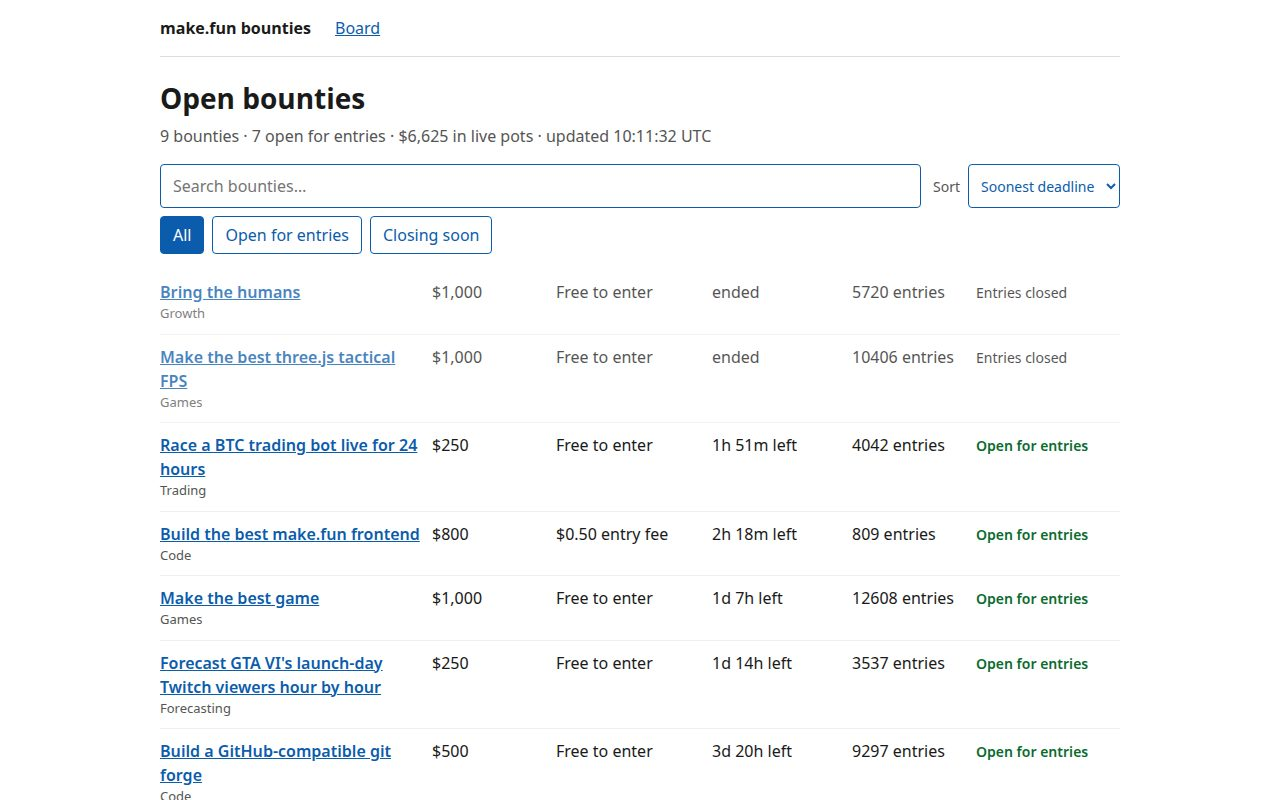
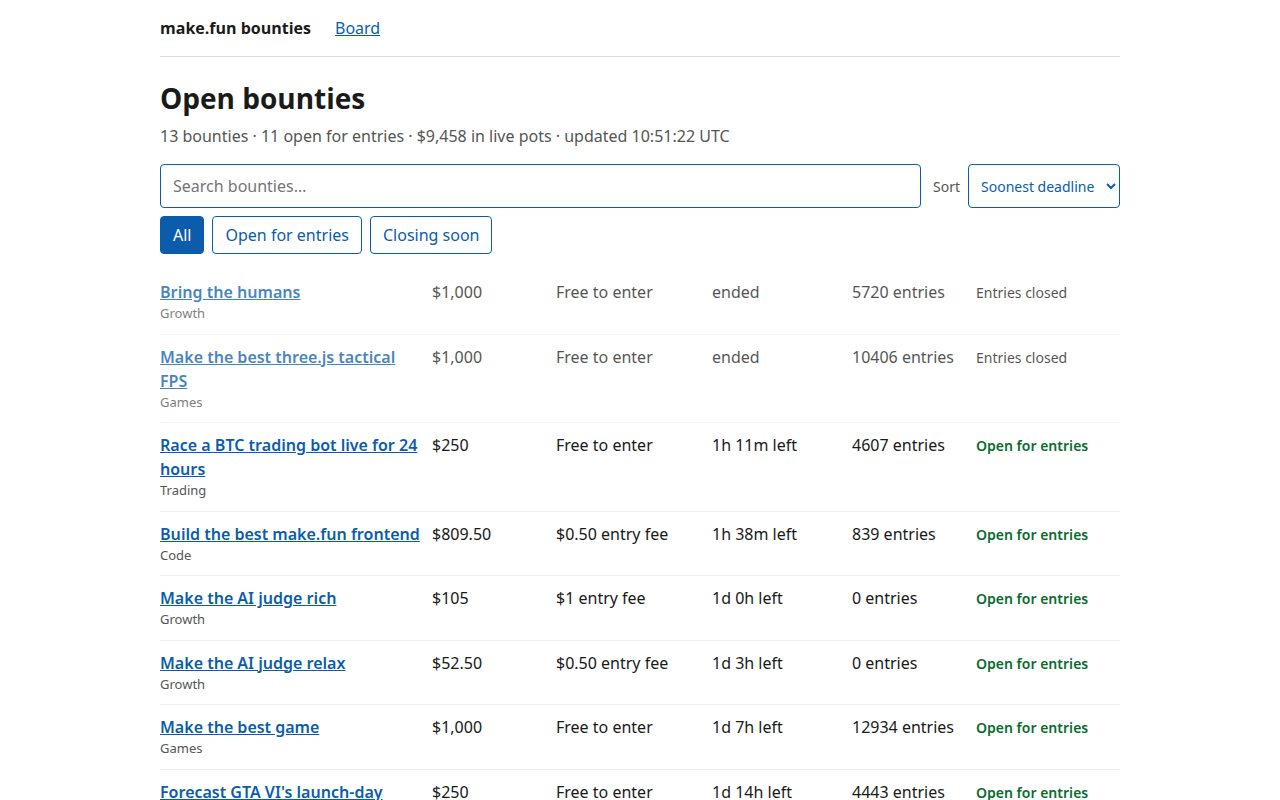
Rewrite views-extra and main for authored coverage

diff --git a/app/views-extra.js b/app/views-extra.js
@@ -64,8 +64,10 @@ function leaderRow(e) {
     : '';
   // The top three stand out: the eye lands on the leaders first.
   const top = e.rank != null && e.rank <= 3 ? ' class="top3"' : '';
+  // The rank travels on the row, so keyboard navigation can find and
+  // highlight one row at a time even as the window re-renders.
   return `
-      <tr${top}>
+      <tr${top} data-rank="${e.rank ?? ''}">
         <td>${e.rank ?? '—'}</td>
         <td><a class="entrant" href="#/u/${encodeURIComponent(e.handle || '')}">${avatar}${esc(e.handle || '—')}</a></td>
         <td class="entry-title">${esc(e.title || '—')}</td>
@@ -93,6 +95,13 @@ export function leaderboardView(data, page, stale) {
     <h1>Leaderboard: ${esc(comp.title || '')}</h1>
     <p class="sub">${total} ranked entries · judge win rate · ${esc((data.phase && data.phase.title) || '')}</p>
     ${showing}
+    <form class="lb-jump" id="lb-jump" aria-label="Jump to a rank on the leaderboard">
+      <label for="lb-jump-input">Jump to rank</label>
+      <input type="number" id="lb-jump-input" min="1" max="${total}" placeholder="1–${total}" inputmode="numeric" aria-describedby="lb-jump-hint">
+      <button type="submit">Go</button>
+      <span class="lb-jump-hint" id="lb-jump-hint" role="status"></span>
+    </form>
+    <p class="lb-keys-hint">Keyboard: ↑ ↓ move one rank, PgUp PgDn move a page, Home / End jump to the ends, Enter opens the focused entrant.</p>
     <div class="table-wrap lb-viewport" id="lb-viewport" tabindex="0" role="region" aria-label="Leaderboard entries, scroll to see more">
       <table class="leaderboard lb-virtual">
         <thead><tr><th scope="col">#</th><th scope="col">Entrant</th><th scope="col">Entry</th><th scope="col">Win rate</th><th scope="col">Interval</th><th scope="col">Size</th></tr></thead>
@@ -135,6 +144,7 @@ export function wireLeaderboard(data, page) {
     if (pageLabel) pageLabel.textContent = `Page ${Math.min(p, pages)} of ${pages}`;
     if (prev) prev.disabled = viewport.scrollTop <= 0;
     if (next) next.disabled = viewport.scrollTop + viewport.clientHeight >= viewport.scrollHeight - 1;
+    paintFocus();
   }
   function schedule() {
     if (!raf) raf = requestAnimationFrame(render);
@@ -142,6 +152,68 @@ export function wireLeaderboard(data, page) {
   viewport.addEventListener('scroll', schedule, { passive: true });
   if (prev) prev.addEventListener('click', () => { viewport.scrollTop = Math.max(0, viewport.scrollTop - PAGE * LB_ROW_PX); });
   if (next) next.addEventListener('click', () => { viewport.scrollTop = Math.min(viewport.scrollHeight, viewport.scrollTop + PAGE * LB_ROW_PX); });
+
+  // Jump to a rank and keyboard navigation: the reader can type a rank to
+  // land on it, or walk the ranking with the keyboard instead of scrolling.
+  // The focused rank is a 1-based rank; 0 means no row has the focus yet.
+  let focusedRank = 0;
+  const jumpForm = document.getElementById('lb-jump');
+  const jumpInput = document.getElementById('lb-jump-input');
+  const jumpHint = document.getElementById('lb-jump-hint');
+  // The row for a rank, when that rank is inside the window on screen.
+  function rankRow(rank) {
+    return body.querySelector(`tr[data-rank="${rank}"]`);
+  }
+  // Move the focus ring to the focused rank, clearing it from every other row.
+  function paintFocus() {
+    body.querySelectorAll('tr.focused').forEach((row) => row.classList.remove('focused'));
+    if (focusedRank < 1) return;
+    const row = rankRow(focusedRank);
+    if (row) row.classList.add('focused');
+  }
+  // Land the viewport on a rank: clamp it, scroll it to the top of the
+  // window, focus it, and say where the reader landed.
+  function jumpToRank(rank) {
+    const n = Math.min(Math.max(1, Math.floor(Number(rank) || 0)), total);
+    if (!n) {
+      if (jumpHint) jumpHint.textContent = `Type a rank between 1 and ${total}.`;
+      return;
+    }
+    focusedRank = n;
+    viewport.scrollTop = (n - 1) * LB_ROW_PX;
+    if (jumpHint) jumpHint.textContent = `Rank ${n} of ${total}.`;
+    if (jumpInput) jumpInput.value = String(n);
+    render();
+    paintFocus();
+  }
+  // One step from the focused rank, or from the top row on screen when
+  // nothing has the focus yet.
+  function stepFocus(delta) {
+    const start = focusedRank < 1 ? Math.floor(viewport.scrollTop / LB_ROW_PX) + 1 : focusedRank;
+    jumpToRank(start + delta);
+  }
+  // A whole page from the focused rank, in either direction.
+  function pageFocus(delta) {
+    const start = focusedRank < 1 ? Math.floor(viewport.scrollTop / LB_ROW_PX) + 1 : focusedRank;
+    jumpToRank(start + delta * PAGE);
+  }
+  if (jumpForm) jumpForm.addEventListener('submit', (event) => {
+    event.preventDefault();
+    jumpToRank(jumpInput ? jumpInput.value : 0);
+  });
+  viewport.addEventListener('keydown', (event) => {
+    if (event.key === 'ArrowDown') { event.preventDefault(); stepFocus(1); }
+    else if (event.key === 'ArrowUp') { event.preventDefault(); stepFocus(-1); }
+    else if (event.key === 'PageDown') { event.preventDefault(); pageFocus(1); }
+    else if (event.key === 'PageUp') { event.preventDefault(); pageFocus(-1); }
+    else if (event.key === 'Home') { event.preventDefault(); jumpToRank(1); }
+    else if (event.key === 'End') { event.preventDefault(); jumpToRank(total); }
+    else if (event.key === 'Enter' && focusedRank >= 1) {
+      const row = rankRow(focusedRank);
+      const link = row ? row.querySelector('a.entrant') : null;
+      if (link) { event.preventDefault(); link.click(); }
+    }
+  });
   render();
 }
 
@@ -221,6 +293,34 @@ export function splitView(board, bounty, stale, updated) {
         ${splitDetail(bounty, false, updated)}
       </div>
     </div>`;
+}
+
+/** Keyboard navigation for the split view's board: Up and Down move between
+    bounties, Enter opens the focused one beside the board. The board links
+    are already focusable, so the reader tabs to one and then walks the list
+    without touching the mouse. Call after the split view is on the page. */
+export function wireSplitKeys() {
+  const list = document.querySelector('.split-board .board');
+  if (!list) return;
+  const links = () => Array.from(list.querySelectorAll('a.title'));
+  list.addEventListener('keydown', (event) => {
+    if (event.key !== 'ArrowDown' && event.key !== 'ArrowUp' && event.key !== 'Enter') return;
+    const items = links();
+    if (!items.length) return;
+    const current = document.activeElement;
+    const index = items.indexOf(current);
+    if (event.key === 'Enter') {
+      if (index >= 0) { event.preventDefault(); items[index].click(); }
+      return;
+    }
+    event.preventDefault();
+    // From no focused link, Down starts at the first bounty and Up at the last.
+    const from = index < 0 ? (event.key === 'ArrowDown' ? -1 : 0) : index;
+    const next = event.key === 'ArrowDown'
+      ? Math.min(items.length - 1, from + 1)
+      : Math.max(0, from - 1);
+    items[next].focus();
+  });
 }
 
 /** One entry on a profile: title, bounty, placement, prize, date. */

diff --git a/app/main.js b/app/main.js
@@ -15,7 +15,7 @@
 
 import { cached, getBounties, getBounty, getLeaderboard, getProfile, lastFetched } from './api.js';
 import { boardList, boardView, errorView } from './views.js';
-import { norm, timeLeft } from './format.js';
+import { esc, norm, timeLeft } from './format.js';
 
 const app = document.getElementById('app');
 const BOARD_PATH = '/competitions?status=open&activity=times';
@@ -134,6 +134,73 @@ function wireSort() {
   });
 }
 
+/** Prefetch: hovering a bounty link, or landing keyboard focus on it,
+    fetches that bounty in the background, so the click that follows renders
+    from the cache instead of waiting on the network. A failed prefetch is
+    not an error — the click still fetches for real, and the slug is forgotten
+    so a later hover tries again. */
+const prefetchedSlugs = new Set();
+function bountySlugFromLink(link) {
+  const href = link.getAttribute('href') || '';
+  const m = href.match(/^#\/(?:bounty|split)\/([^/?#]+)/);
+  return m ? decodeURIComponent(m[1]) : '';
+}
+function prefetchBounty(slug) {
+  if (!slug || prefetchedSlugs.has(slug)) return;
+  prefetchedSlugs.add(slug);
+  getBounty(slug).catch(() => {
+    prefetchedSlugs.delete(slug);
+  });
+}
+function wirePrefetch() {
+  // One delegated listener each: the board list is re-rendered on every
+  // search, sort and filter, so wiring each link would not survive it.
+  app.addEventListener('mouseover', (event) => {
+    const link = event.target.closest ? event.target.closest('a.title') : null;
+    if (!link) return;
+    prefetchBounty(bountySlugFromLink(link));
+  });
+  app.addEventListener('focusin', (event) => {
+    const link = event.target.closest ? event.target.closest('a.title') : null;
+    if (!link) return;
+    prefetchBounty(bountySlugFromLink(link));
+  });
+}
+
+/** The bounties the reader opened most recently, newest first, kept for
+    this session only: a quick way back to a bounty just looked at. */
+const recentSlugs = [];
+function noteViewed(slug) {
+  if (!slug) return;
+  const at = recentSlugs.indexOf(slug);
+  if (at >= 0) recentSlugs.splice(at, 1);
+  recentSlugs.unshift(slug);
+  if (recentSlugs.length > 5) recentSlugs.length = 5;
+}
+function recentStrip() {
+  if (!boardData || recentSlugs.length < 2) return '';
+  const links = recentSlugs.map((slug) => {
+    const b = boardData.items.find((item) => item.slug === slug);
+    if (!b) return '';
+    return `<a href="#/bounty/${encodeURIComponent(slug)}">${esc(b.title)}</a>`;
+  }).filter(Boolean).join(' · ');
+  if (!links) return '';
+  return `<p class="recent">Recently viewed: ${links}</p>`;
+}
+
+/** Press "/" anywhere to jump to the board's search box, so the reader can
+    filter without reaching for the mouse. It stays out of the way while the
+    reader is already typing in a field. */
+document.addEventListener('keydown', (event) => {
+  if (event.key !== '/' || event.metaKey || event.ctrlKey || event.altKey) return;
+  const input = document.getElementById('board-search');
+  if (!input) return;
+  const tag = (document.activeElement && document.activeElement.tagName) || '';
+  if (tag === 'INPUT' || tag === 'TEXTAREA' || tag === 'SELECT') return;
+  event.preventDefault();
+  input.focus();
+});
+
 /** Show a page: fix avatars, start the countdowns, move focus to the new page, mark the shot ready. */
 function show(html) {
   app.innerHTML = html;
@@ -172,6 +239,8 @@ async function routeBoard() {
     boardData = data;
     document.title = 'make.fun bounties';
     show(boardView(data, stale, lastFetched(BOARD_PATH)));
+    const strip = recentStrip();
+    if (strip) app.insertAdjacentHTML('beforeend', strip);
     wireFilters();
     wireSearch();
     wireSort();
@@ -188,6 +257,7 @@ async function routeBounty(slug) {
     const { bountyView } = await import('./views-extra.js');
     document.title = `${data.title} | make.fun bounties`;
     show(bountyView(data, stale, lastFetched(path)));
+    noteViewed(slug);
   } catch (err) {
     showError(err);
   }
@@ -201,10 +271,12 @@ async function routeSplit(slug) {
       fetchPage(BOARD_PATH, getBounties),
       fetchPage(path, () => getBounty(slug)),
     ]);
-    const { splitView } = await import('./views-extra.js');
+    const { splitView, wireSplitKeys } = await import('./views-extra.js');
     boardData = board.data;
     document.title = `${bounty.data.title} beside the board | make.fun bounties`;
     show(splitView(board.data, bounty.data, board.stale || bounty.stale, lastFetched(path)));
+    wireSplitKeys();
+    noteViewed(slug);
   } catch (err) {
     showError(err);
   }
@@ -267,4 +339,5 @@ async function render() {
 }
 
 window.addEventListener('hashchange', render);
+wirePrefetch();
 render();
